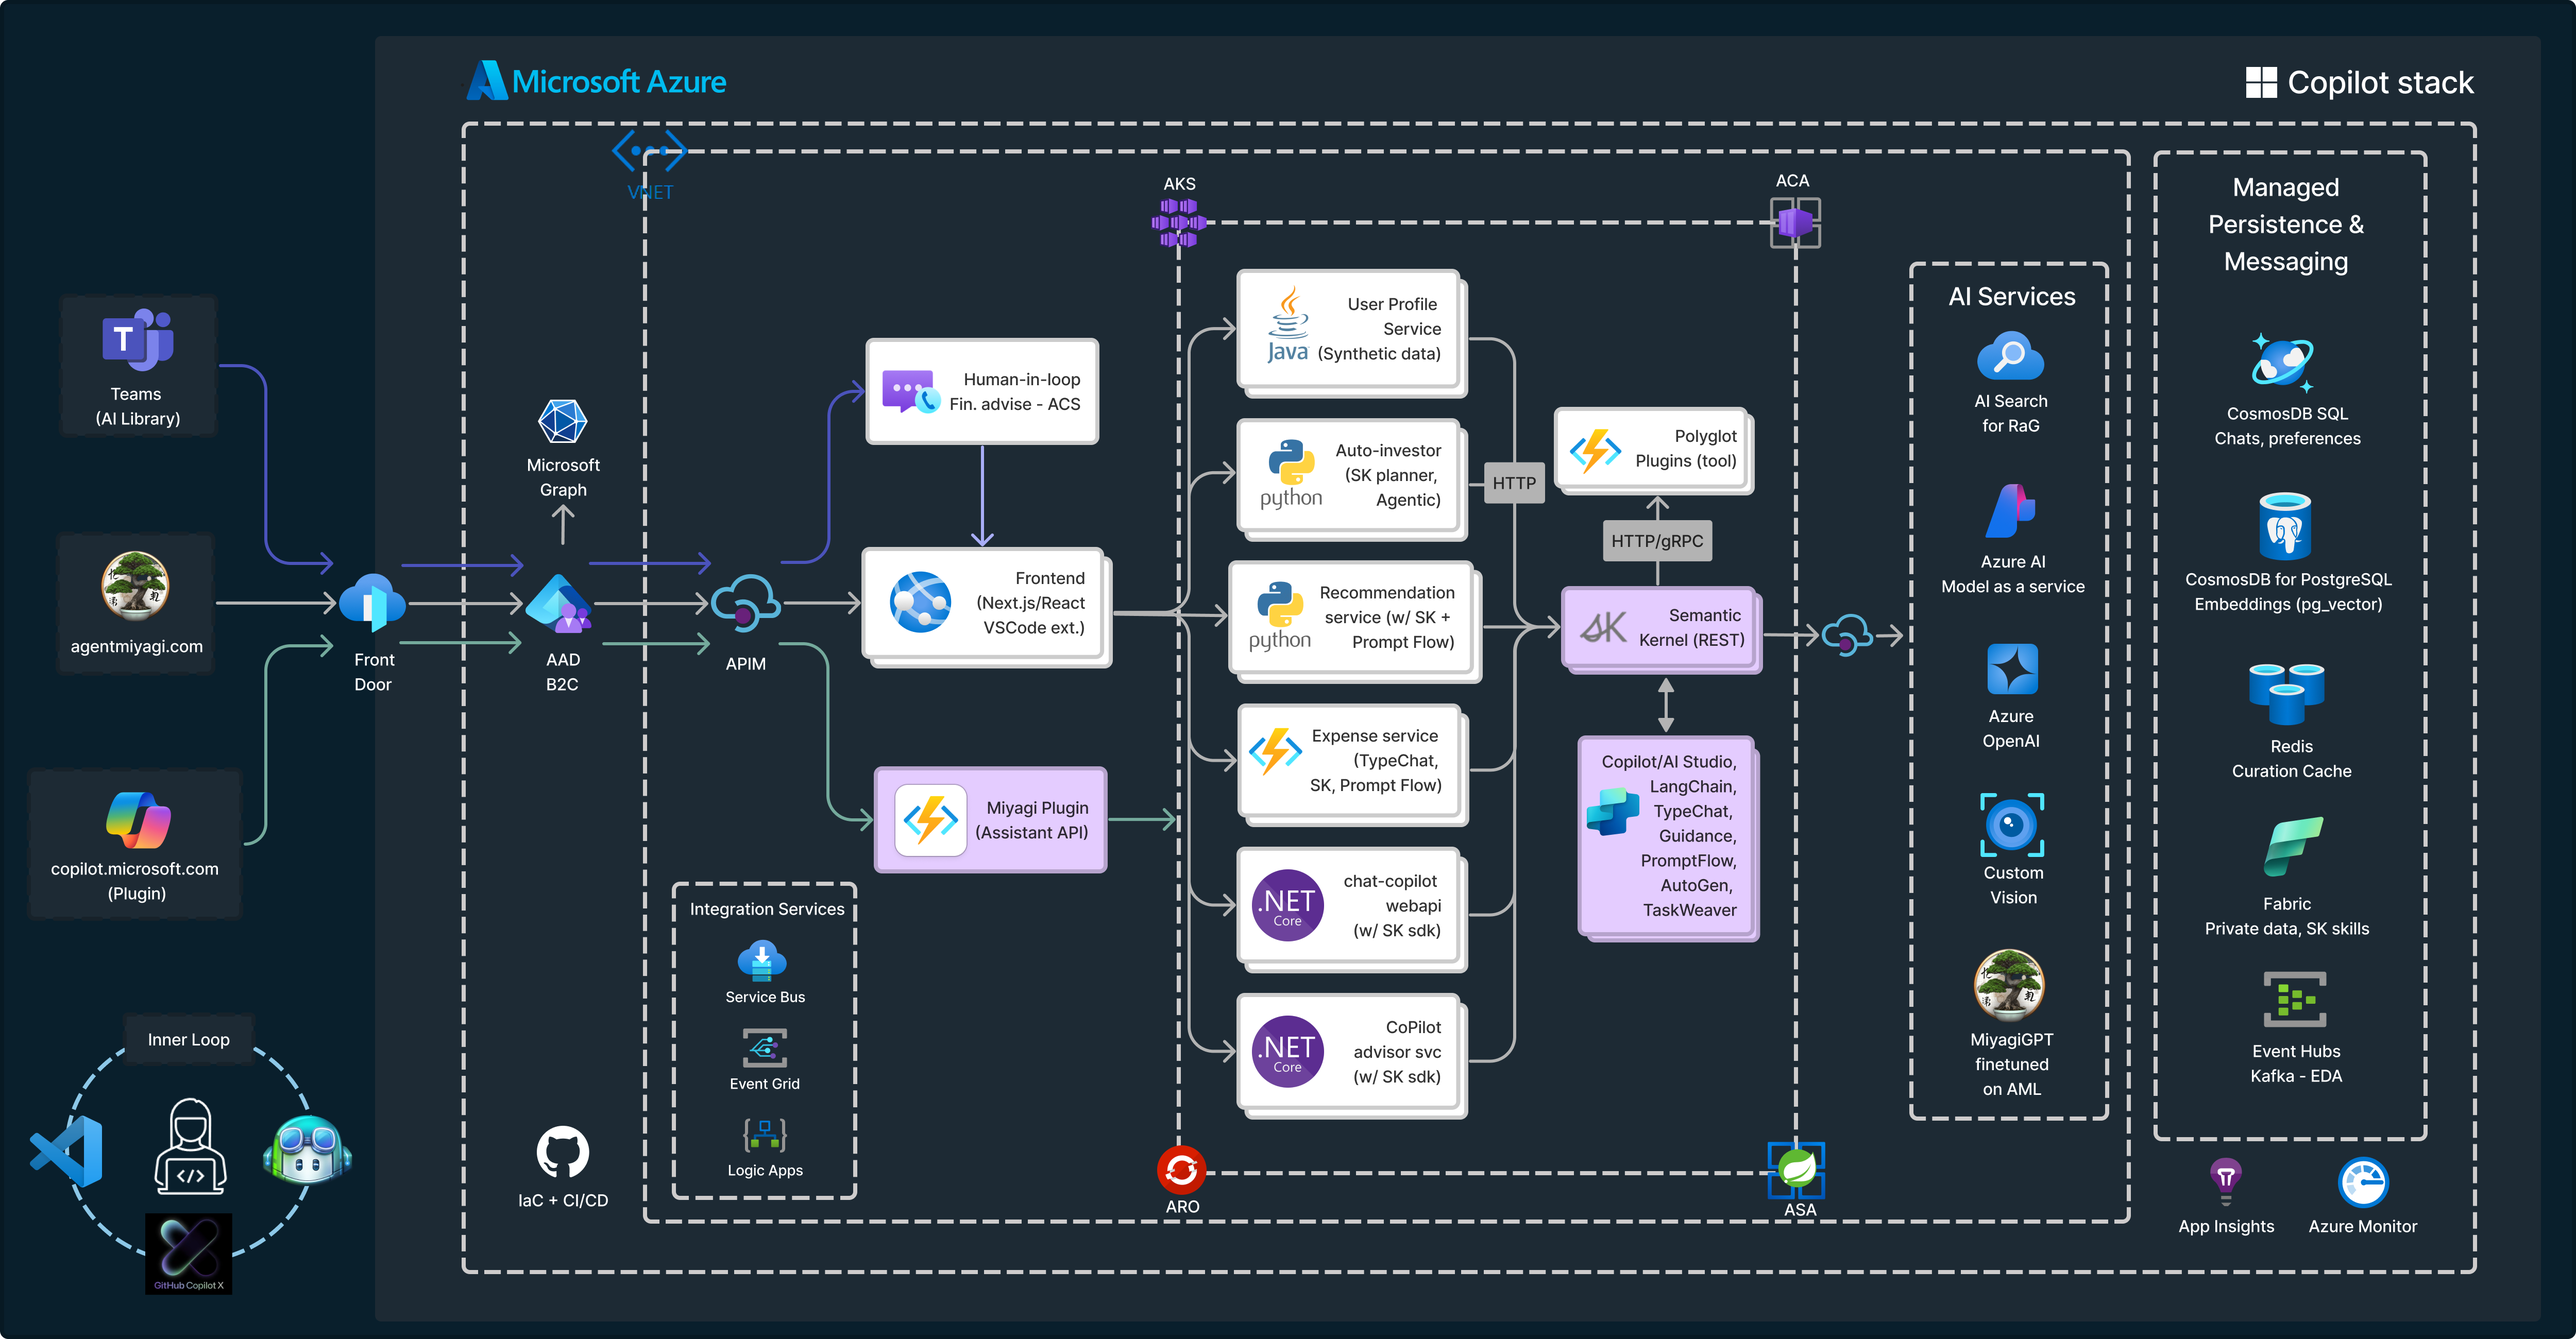
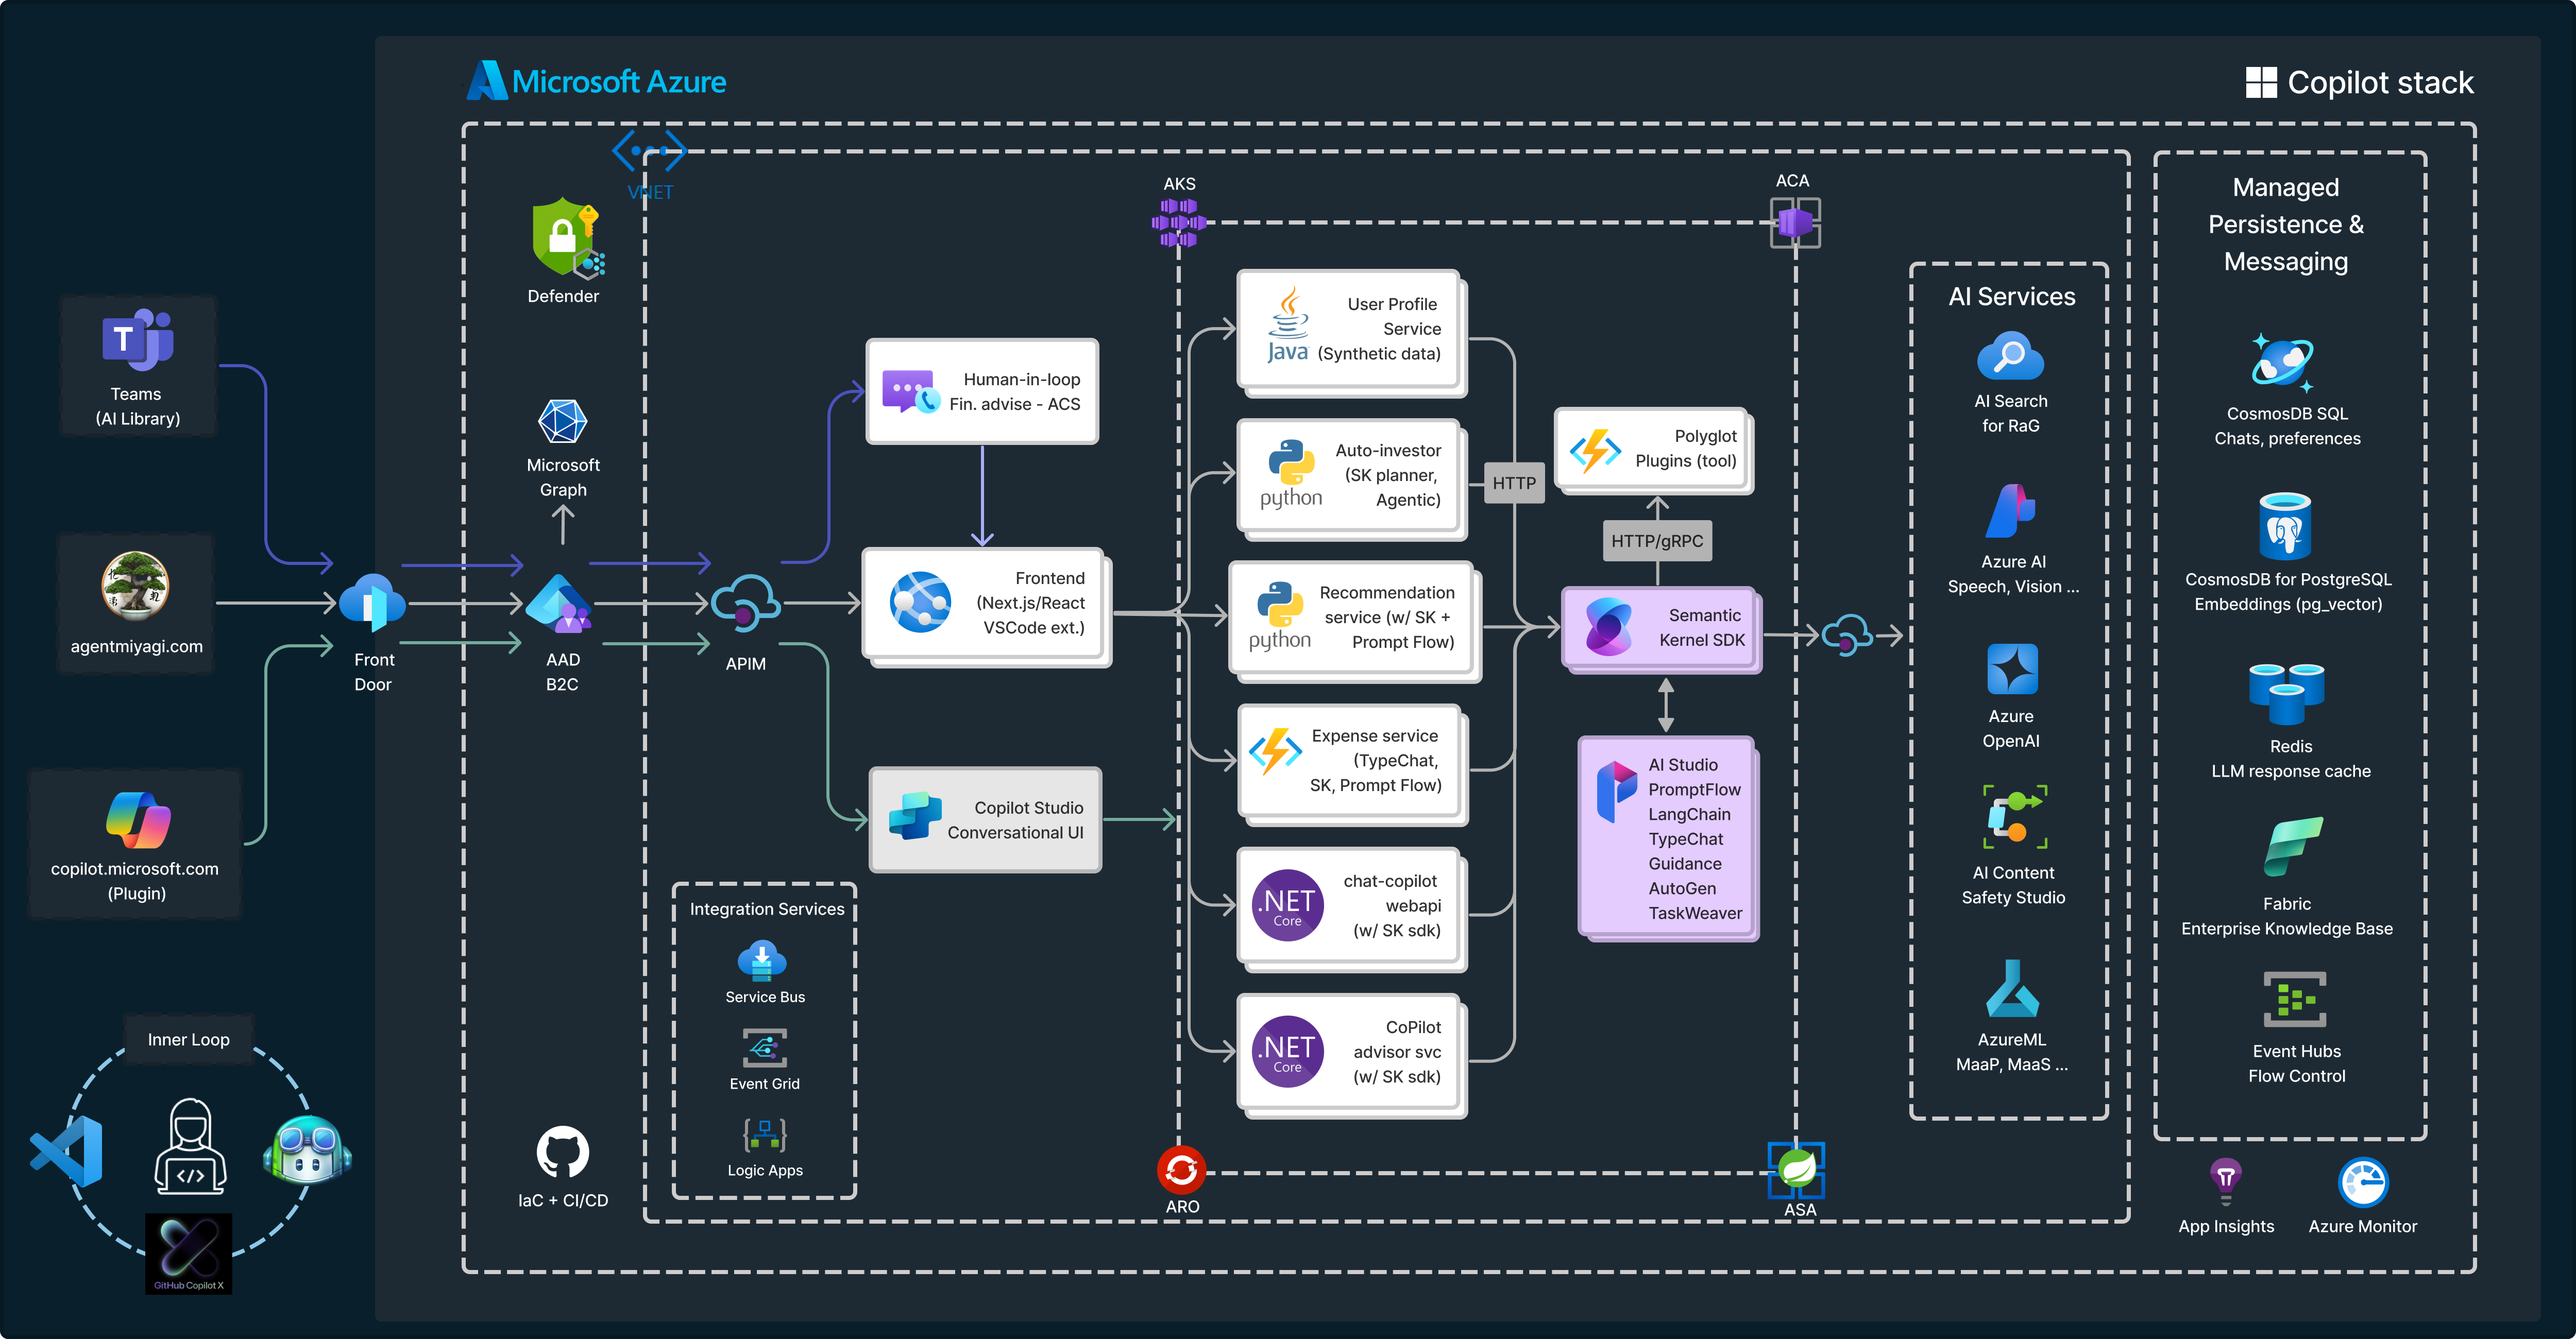
add updates to agents

diff --git a/docs/index.md b/docs/index.md
@@ -25,6 +25,7 @@ By leveraging design thinking, [Project Miyagi](https://github.com/Azure-Samples
 1. Design Thinking Session: A collaborative brainstorming activity to identify your idiosyncratic use cases, focusing on addressing user needs and alleviating pain points, so that the workshop will be relevant for you.
 1. Introduction to Assistants API and Semantic Kernel (SK): A comprehensive presentation to familiarize participants with the fundamentals of SK, agent-like orchestration, and goals-first AI.
 1. End-to-End Application Lifecycle Workshop featuring [Miyagi](https://github.com/Azure-Samples/miyagi): Gain hands-on experience in incorporating SK primitives into the entire application lifecycle, including leveraging SK skills and prompt engineering to orchestrate complex flows with Azure OpenAI models. <p align="center"><img src="assets/images/basic-arch.png" width=50% /></p>
+<p align="center"><img src="assets/images/ai_application.png" width=50% /></p>
 1. Architecture Design Session: Dive into the intricacies of designing a robust and effective system architecture to support intelligent app development.
 
 ![miyagi-ui](assets/images/ui-annotations.png)

diff --git a/docs/wksp/00-intro/architecture-overview.md b/docs/wksp/00-intro/architecture-overview.md
@@ -10,6 +10,10 @@ Polyglot, AI-Infused Microservices Architecture with Event-Driven Backend
 
 ![copilot-stack](../../assets/images/copilot-stack.png)
 
+### Agents
+
+![agents](../../assets/images/agents-block-diagram.png)
+
 ## Overview
 
 Project Miyagi presents a modern, event-driven architecture, incorporating AI-infused microservices to enable seamless integration of state-of-the-art (SoTA) foundation models in user experiences and backend workflows. Built on Azure primitives and orchestrated by Semantic Kernel, the architecture emphasizes scalability, flexibility, and adaptability, paving the way for nascent, AI-enabled intelligent app design.
